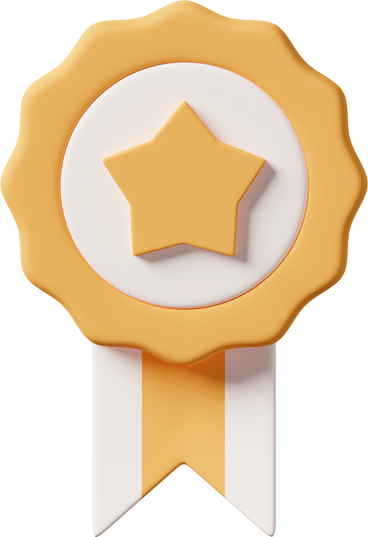
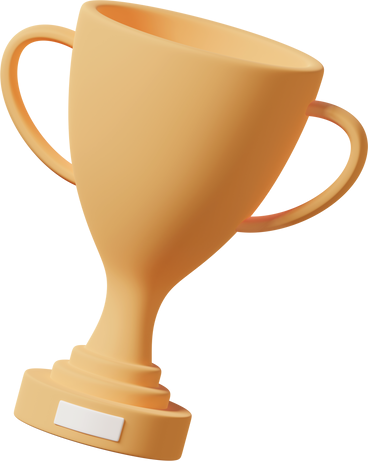
Fixed bugs, added animation when subscribing, added badge system

diff --git a/static/styles/css/style-profile.css b/static/styles/css/style-profile.css
@@ -147,22 +147,25 @@
     text-overflow: ellipsis;
 }
 
-.profile-main-container .profile-header .profile-main-infos .info-box {
-    display: flex;
-    align-items: center;
-    gap: 15px;
+.profile-main-container .profile-header .profile-main-infos .subscription-infos {
+    font-family: "League Spartan", sans-serif;
+    font-size: 16px;
+    font-weight: bold;
     margin-top: 10px;
 }
 
-.profile-main-container .profile-header .profile-main-infos .info-box .img {
-    width: 20px;
-    height: 20px;
-}
-
-.profile-main-container .profile-header .profile-main-infos .info-box .text {
+.profile-main-container .profile-header .profile-main-infos .member-date-info {
     font-family: "League Spartan", sans-serif;
     font-size: 14px;
+    margin-top: 10px;
     color: #333;
+}
+
+.profile-main-container .profile-header .profile-main-infos .separate {
+    width: 50px;
+    height: 1px;
+    background-color: #333;
+    margin-top: 15px;
 }
 
 .profile-main-container .profile-header .profile-main-infos .visibility-box {
@@ -215,7 +218,7 @@
 }
 
 .profile-main-container .profile-header .profile-main-infos .subscription .button {
-    padding: 5px 10px;
+    padding: 10px;
     border-radius: 5px;
     background-color: #333;
     color: white;
@@ -243,9 +246,10 @@
 }
 
 .profile-main-container .profile-header .profile-main-infos .subscribe-button {
-    padding: 5px 10px;
+    padding: 10px;
     border-radius: 5px;
     background-color: white;
+    background-position: 100%;
     box-shadow: 0px 0px 10px 0px #959da54d;
     color: #333;
     transition: all 0.2s ease-in-out;
@@ -253,8 +257,16 @@
     text-align: center;
     font-family: "League Spartan", sans-serif;
     font-size: 14px;
+    font-weight: 600;
     margin-top: 10px;
     cursor: pointer;
+    transition: all 0.2s ease-in-out;
+}
+
+
+.profile-main-container .profile-header .profile-main-infos .subscribe-button.active {
+    background-image: url("/static/imgs/subscription-animation.gif");
+    background-size: cover;
 }
 
 .profile-main-container .profile-header .profile-main-infos .subscribe-button:hover {
@@ -312,6 +324,7 @@
 
 .profile-main-container .profile-content .lists-container {
     column-count: 2;
+    column-width: 10px;
     column-gap: 10px;
     margin-top: 25px;
 }
@@ -382,6 +395,8 @@
     font-size: 18px;
     font-weight: 600;
     color: #333;
+    overflow: hidden;
+    text-overflow: ellipsis;
 }
 
 .profile-main-container .profile-content .lists-container .list-box .list-of-words {
@@ -434,9 +449,102 @@
     grid-row: 2;
     width: 100%;
     height: fit-content;
-    padding: 10px;
+    padding: 0 10px 10px 10px;
     border-radius: 10px;
     position: relative;
+}
+
+.profile-main-container .friends-list .badge-section .title {
+    font-family: "League Spartan", sans-serif;
+    font-size: 18px;
+    font-weight: 600;
+}
+
+.profile-main-container .friends-list .badge-section .badge-box {
+    display: grid;
+    grid-template-columns: 90px 1fr;
+    align-items: center;
+    gap: 10px;
+    margin-top: 20px;
+    margin-bottom: 20px;
+    padding: 10px;
+    border-radius: 10px;
+    border: 2.5px solid grey;
+}
+
+.profile-main-container .friends-list .badge-section .badge-box img {
+    width: 85px;
+}
+
+.profile-main-container .friends-list .badge-section .badge-box .infos .name {
+    font-family: "League Spartan", sans-serif;
+    font-size: 16px;
+    color: #333;
+    font-weight: bold;
+}
+
+.profile-main-container .friends-list .badge-section .badge-box .infos .description {
+    font-family: "League Spartan", sans-serif;
+    font-size: 14px;
+    color: #555;
+    margin-top: 5px;
+}
+
+.profile-main-container .friends-list .badge-section .badge-box .infos .progress-bar {
+    position: relative;
+    width: 100%;
+    height: 15px;
+    background-color: #ccc;
+    border-radius: 10px;
+    margin-top: 10px;
+}
+
+.profile-main-container .friends-list .badge-section .badge-box .infos .progress-bar .progress-inner {
+    position: absolute;
+    top: 0;
+    left: 0;
+    height: 100%;
+    border-radius: 10px;
+}
+
+.profile-main-container .friends-list .badge-section .badge-box .infos .progress-bar .progress-inner.polyglot {
+    background-color: #6b08ad;
+}
+
+.profile-main-container .friends-list .badge-section .badge-box .infos .progress-bar .progress-inner.expert {
+    background-color: #c57f17;
+}
+
+.profile-main-container .friends-list .badge-section .badge-box .infos .progress-bar .progress-inner.advanced {
+    background-color: #ffdfb0;
+}
+
+.profile-main-container .friends-list .badge-section .badge-box .infos .progress-bar .progress-inner.intermediate {
+    background-color: #078b07;
+}
+
+.profile-main-container .friends-list .badge-section .badge-box .infos .progress-bar .progress-inner.beginner {
+    background-color: #3974d4;
+}
+
+.profile-main-container .friends-list .badge-section .badge-box .infos .progress-bar .progress-text {
+    position: absolute;
+    top: 0;
+    left: 0;
+    width: 100%;
+    height: 100%;
+    display: flex;
+    align-items: center;
+    justify-content: center;
+    font-family: "League Spartan", sans-serif;
+    font-size: 12px;
+    padding-top: 3px;
+    color: #333;
+    font-weight: 800;
+}
+
+.profile-main-container .friends-list .badge-section .badge-box .infos .progress-bar .progress-text.polyglot {
+    color: white;
 }
 
 .profile-main-container .friends-list .menu {

diff --git a/templates/dashboard/profile.html b/templates/dashboard/profile.html
@@ -25,14 +25,9 @@
         </div>
         <div class="profile-main-infos">
             <div class="name">{{ name }}</div>
-            <div class="info-box">
-                <img src="/static/icons/member-30-dark-grey.png" class="img">
-                <div class="text">{{subscriptions|length}} abonnement{%if subscriptions|length > 1%}s{%endif%} / {{subscribers|length}} abonné{%if subscribers|length > 1%}s{%endif%}</div>
-            </div>
-            <div class="info-box">
-                <img src="/static/icons/calendar-30-dark-grey.png" class="img">
-                <div class="text">Membre depuis le {{date}}</div>
-            </div>
+            <div class="subscription-infos">{{subscriptions|length}} abonnement{%if subscriptions|length > 1%}s{%endif%} / {{subscribers|length}} abonné{%if subscribers|length > 1%}s{%endif%}</div>
+            <div class="member-date-info">Membre depuis le {{date}}</div>
+            <div class="separate"></div>
             {% if is_current_user %} {% if is_public %}
             <div class="visibility-box">
                 <img src="/static/icons/hide-password.png" class="img">
@@ -131,6 +126,51 @@
     </section>
     {% endif %}
     <section class="friends-list entry-animation">
+        <div class="badge-section">
+            <div class="title">Badge</div>
+            {% if user_infos["xp"] < 500 %}
+                {% set level = "beginner" %}
+                {% set name = "Débutant" %}
+                {% set description = "Débute son apprentissage de la langue anglaise" %}
+                {% set progress_text = "/ 500 XP" %}
+                {% set progress_percent = (user_infos["xp"] / 500) * 100 %}
+            {% elif user_infos["xp"] < 2500 %}
+                {% set level = "intermediate" %}
+                {% set name = "Intermédiaire" %}
+                {% set description = "Explore de nouveaux horizons linguistiques en anglais" %}
+                {% set progress_text = "/ 2500 XP" %}
+                {% set progress_percent = (user_infos["xp"] / 2500) * 100 %}
+            {% elif user_infos["xp"] < 7500 %}
+                {% set level = "advanced" %}
+                {% set name = "Avancé" %}
+                {% set description = "Voyage aisément à travers les nuances de la langue anglaise" %}
+                {% set progress_text = "/ 7500 XP" %}
+                {% set progress_percent = (user_infos["xp"] / 7500) * 100 %}
+            {% elif user_infos["xp"] < 15000 %}
+                {% set level = "expert" %}
+                {% set name = "Expert" %}
+                {% set description = "Maîtrise les subtilités de l'anglais avec aisance" %}
+                {% set progress_text = "/ 15000 XP" %}
+                {% set progress_percent = (user_infos["xp"] / 15000) * 100 %}
+            {% else %}
+                {% set level = "polyglot" %}
+                {% set name = "Polyglotte" %}
+                {% set description = "Incollable en anglais et prêt à conquérir de nouvelles langues" %}
+                {% set progress_text = "" %}
+                {% set progress_percent = 100 %}
+            {% endif %}
+            <div class="badge-box">
+                <img src="/static/imgs/badges/{{level}}-badge.png" alt="">
+                <div class="infos">
+                    <div class="name">{{name}}</div>
+                    <div class="description">{{description}}</div>
+                    <div class="progress-bar">
+                        <div class="progress-inner {{level}}" style="width: {{progress_percent}}%;"></div>
+                        <div class="progress-text {{level}}">{{user_infos["xp"]}} {{progress_text}}</div>
+                    </div>
+                </div>
+            </div>
+        </div>
         <div class="menu" id="friend-list">
             <div class="item item_sub active">Abonnements</div>
             <div class="item item_sub">Abonnés</div>

diff --git a/static/scripts/profile/main.js b/static/scripts/profile/main.js
@@ -142,6 +142,10 @@ async function subscribe(el) {
         let response = await request.json();
         if (response.code == 200) { // If the request is successful
             // Construct the unsubscription button
+            document.getElementById("subscribe-button").classList.add("active");
+            await new Promise(r => setTimeout(r, 2000));
+            document.getElementById("subscribe-button").classList.remove("active");
+
             let div = document.createElement("div");
             div.classList.add("subscription");
             div.onclick = function() {
@@ -198,6 +202,7 @@ async function unsubscribe(el) {
             // Construct the subscription button
             let div = document.createElement("div");
             div.classList.add("subscribe-button");
+            div.id = "subscribe-button";
             div.onclick = function() {
                 subscribe(this);
             }

diff --git a/templates/index.html b/templates/index.html
@@ -6,7 +6,7 @@ propose un apprentissage basé sur des listes de vocabulaire, agrémenté de min
             <div class="title">Explorez et apprenez<br/> l'anglais en vous amusant</div>
             <div class="subtitle">Une liste de vocabulaire ? Trouvez le chemin de la réussite !</div>
             <div class="text">Renseignez votre liste de vocabulaire et apprenez-la grâce à de nombreux mini-jeux générés juste pour vous !</div>
-            <a href="/dashboard" class="btn">C'est parti !</a>
+            <a href="/auth/register" class="btn">C'est parti !</a>
             <div class="separate"></div>
             <a href="#section1" class="more">
                 <img src="/static/icons/arrow-right-30-dark-grey.png" class="img" alt="arrow-bottom">

diff --git a/create.py b/create.py
@@ -444,8 +444,8 @@ def create_list():
     
     wordList = WordList.from_json(session['list_under_creation'])
     
-    if wordList.length() < 3:
-        return jsonify({"code": 400, "title": "Bad request", "message": "Ajoutez au minimum 3 mots à votre liste"})
+    if wordList.length() < 5:
+        return jsonify({"code": 400, "title": "Bad request", "message": "Ajoutez au minimum 5 mots à votre liste"})
 
     data = request.json
 
